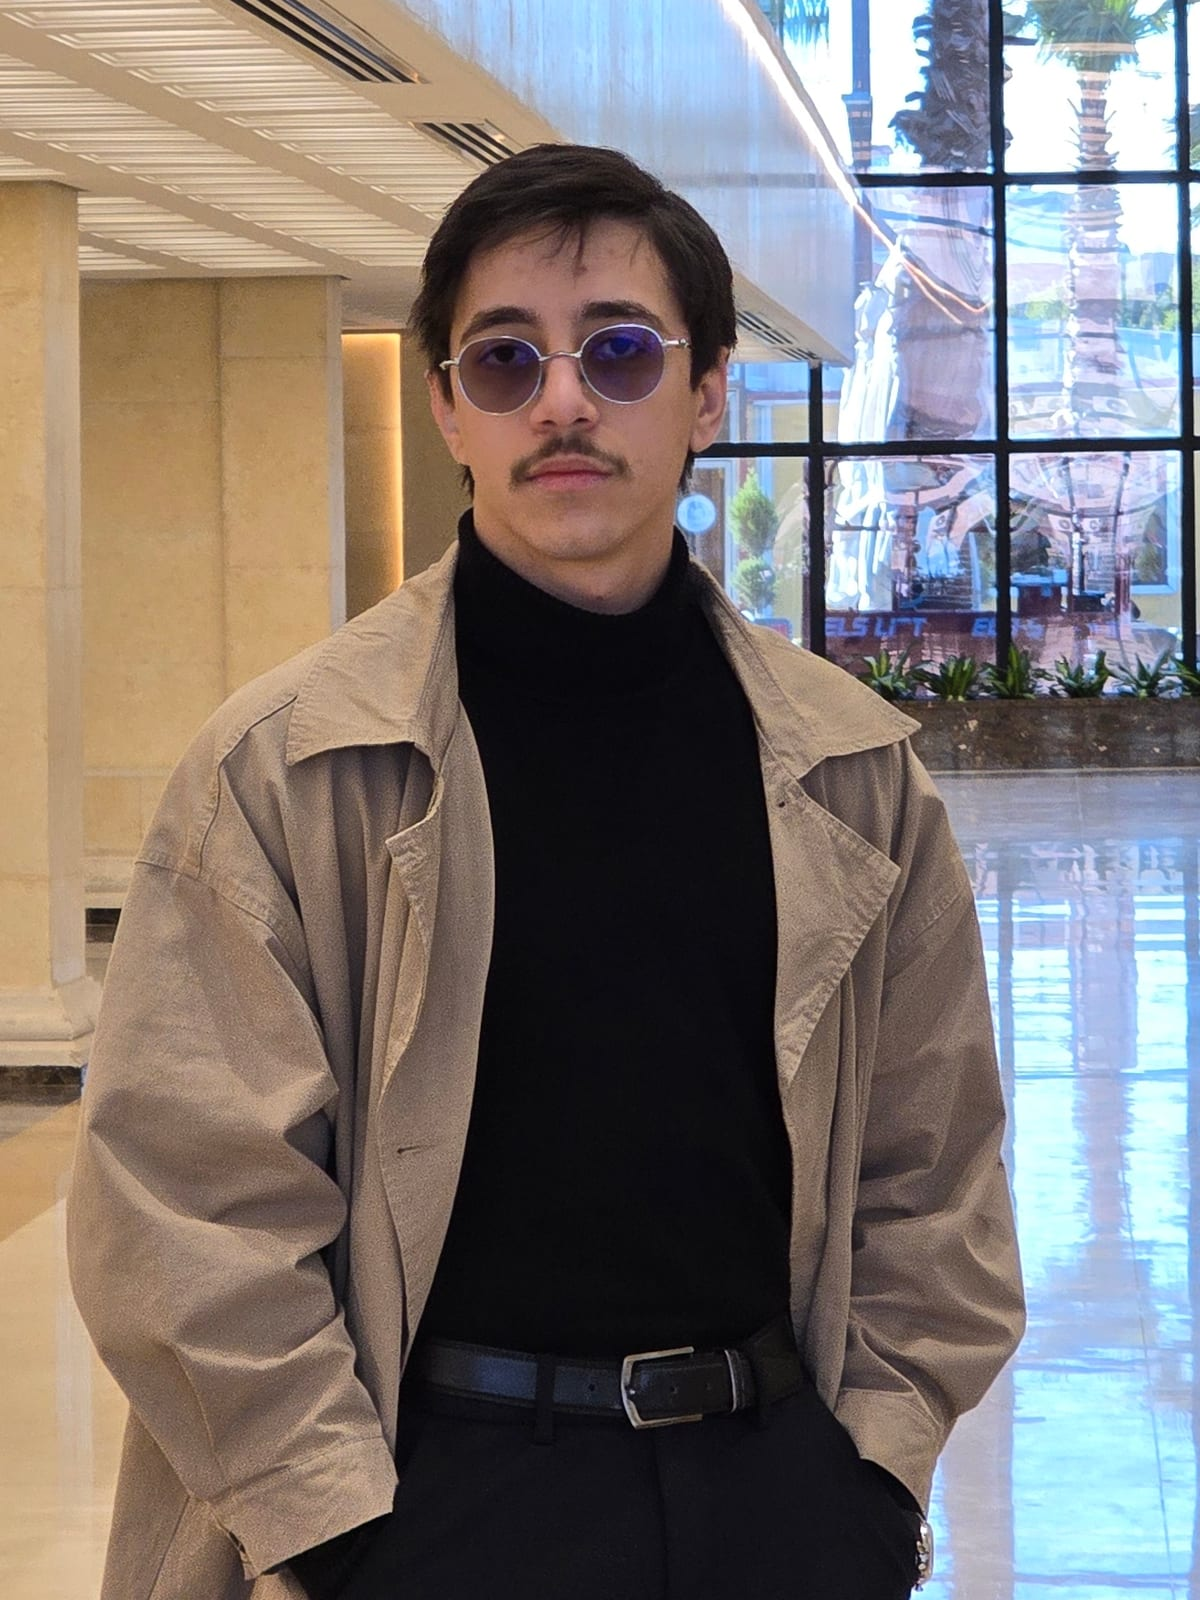
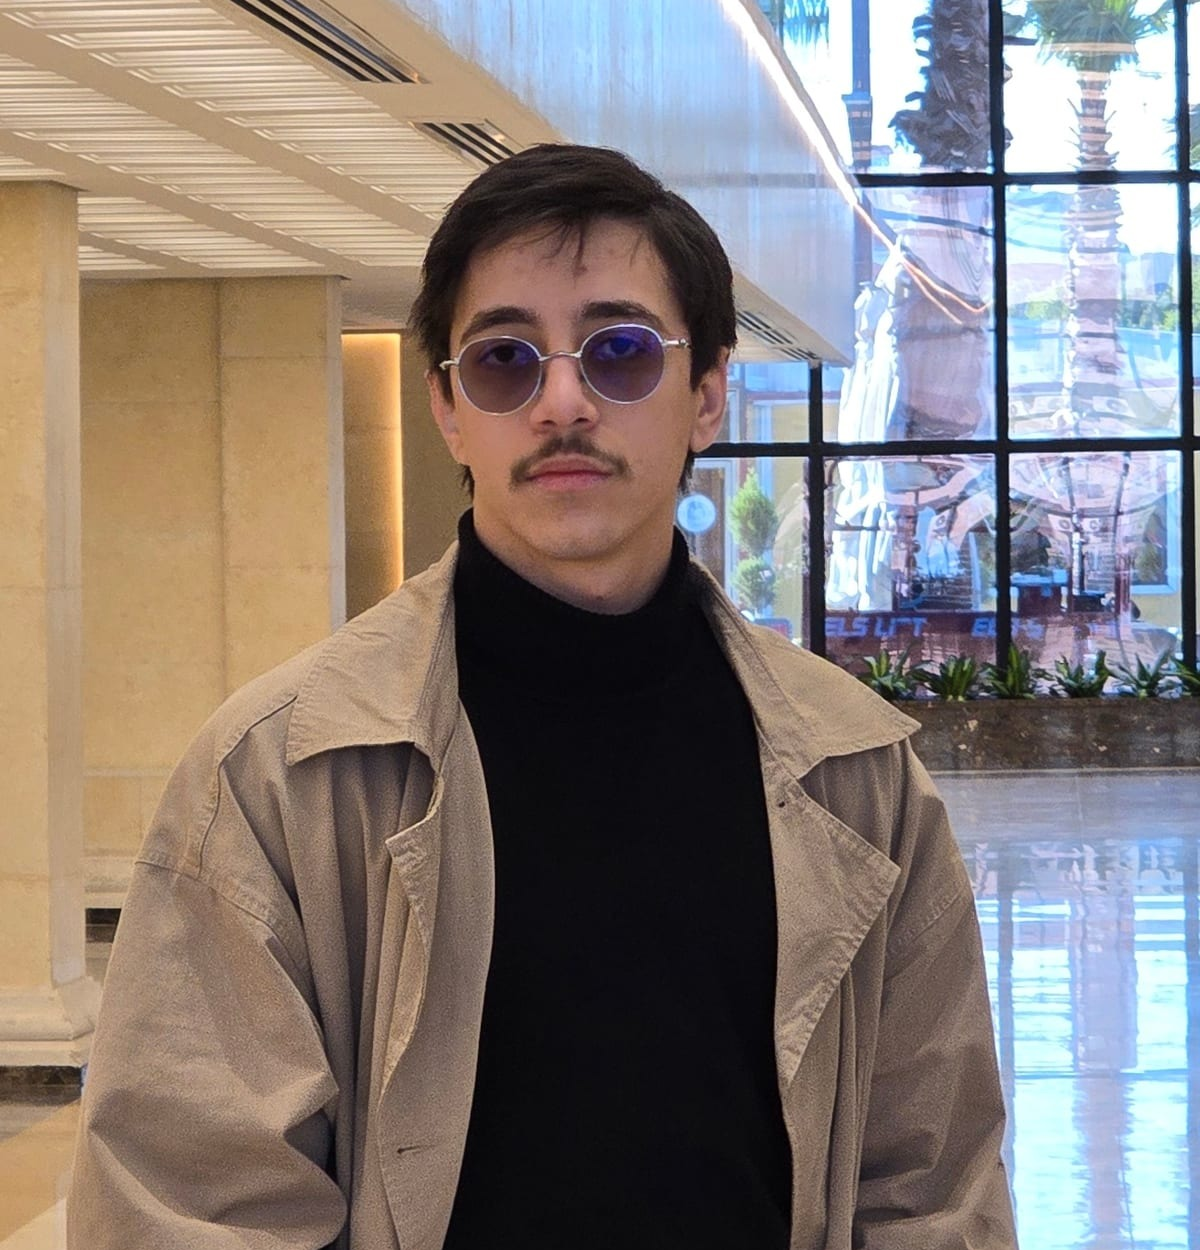
fix: crop the portrait above the belt, credit uoitc-bic on the mayoralty, drop the at-a-glance facts

diff --git a/src/routes/about/+page.svelte b/src/routes/about/+page.svelte
@@ -125,13 +125,6 @@
 		Tools: ['Git', 'Fish', 'Arch Linux']
 	};
 
-	const facts = [
-		{ label: 'Based in', value: `${site.location.city}, ${site.location.country}` },
-		{ label: 'Working on', value: 'Qi & Vitex' },
-		{ label: 'Reading next', value: 'Distributed systems, Rust' },
-		{ label: 'Open to', value: 'Senior roles, contracts' }
-	];
-
 	// Supporting page about the person — NOT the canonical ProfilePage
 	// (that is the homepage). Using AboutPage + `about` keeps /about from
 	// competing with "/" for the person-name query.
@@ -142,7 +135,7 @@
 		url: `${site.url}/about`,
 		name: 'About',
 		isPartOf: { '@id': `${site.url}/#website` },
-		dateModified: '2026-08-06',
+		dateModified: '2026-08-08',
 		about: { '@id': `${site.url}/#person` },
 		breadcrumb: {
 			'@type': 'BreadcrumbList',
@@ -176,7 +169,7 @@
 				sizes="(min-width: 640px) 13rem, 60vw"
 				alt="Khaled Waleed"
 				width="480"
-				height="640"
+				height="500"
 				loading="lazy"
 				decoding="async"
 			/>
@@ -232,20 +225,6 @@
 			For the record, the name in Arabic is <span lang="ar" class="not-italic">خالد وليد</span>,
 			romanized Khaled Waleed, though Khalid Waleed and Khaled Walid also find their way to me.
 		</p>
-	</section>
-
-	<Fleuron />
-
-	<!-- At a glance -->
-	<section class="rise">
-		<dl class="grid grid-cols-2 gap-x-6 gap-y-6 text-left sm:gap-x-10 sm:text-center">
-			{#each facts as f (f.label)}
-				<div>
-					<dt class="smallcaps">{f.label}</dt>
-					<dd class="mt-1 text-[var(--ink)] italic">{f.value}</dd>
-				</div>
-			{/each}
-		</dl>
 	</section>
 
 	<Fleuron />

diff --git a/src/routes/projects/+page.svelte b/src/routes/projects/+page.svelte
@@ -56,7 +56,7 @@
 					name: 'Amanat Baghdad',
 					url: 'https://www.amanatbaghdad.gov.iq',
 					measure: 'gov.iq',
-					note: 'The official website of the Mayoralty of Baghdad, the capital’s municipal government.'
+					note: 'The official website of the Mayoralty of Baghdad, the capital’s municipal government. Built in partnership with UoITC-BIC, the business-informatics college of Baghdad’s public IT university.'
 				},
 				{
 					name: 'Ishtar Center',
